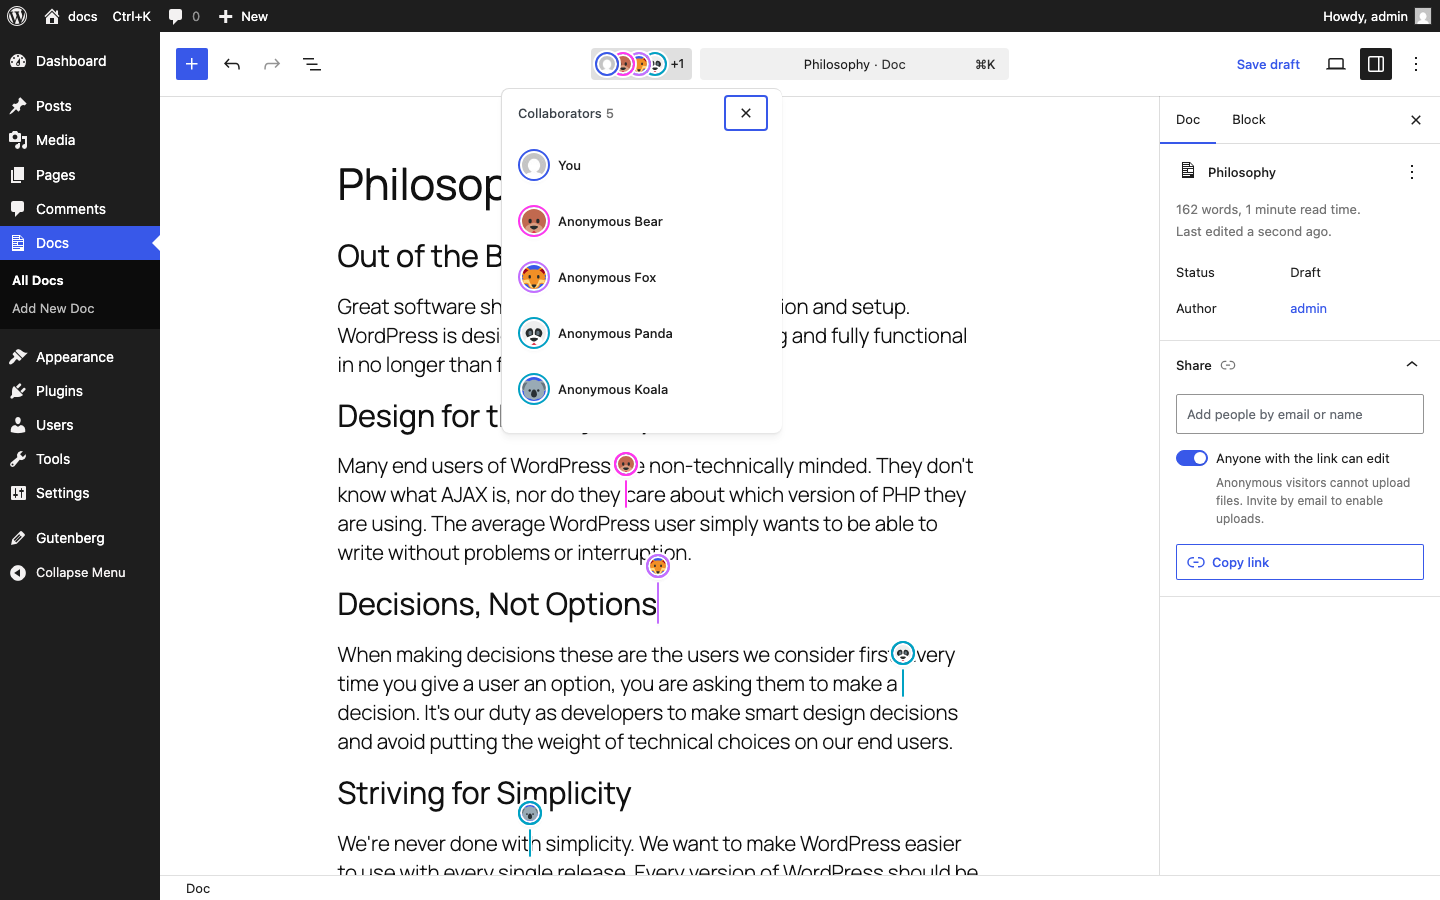
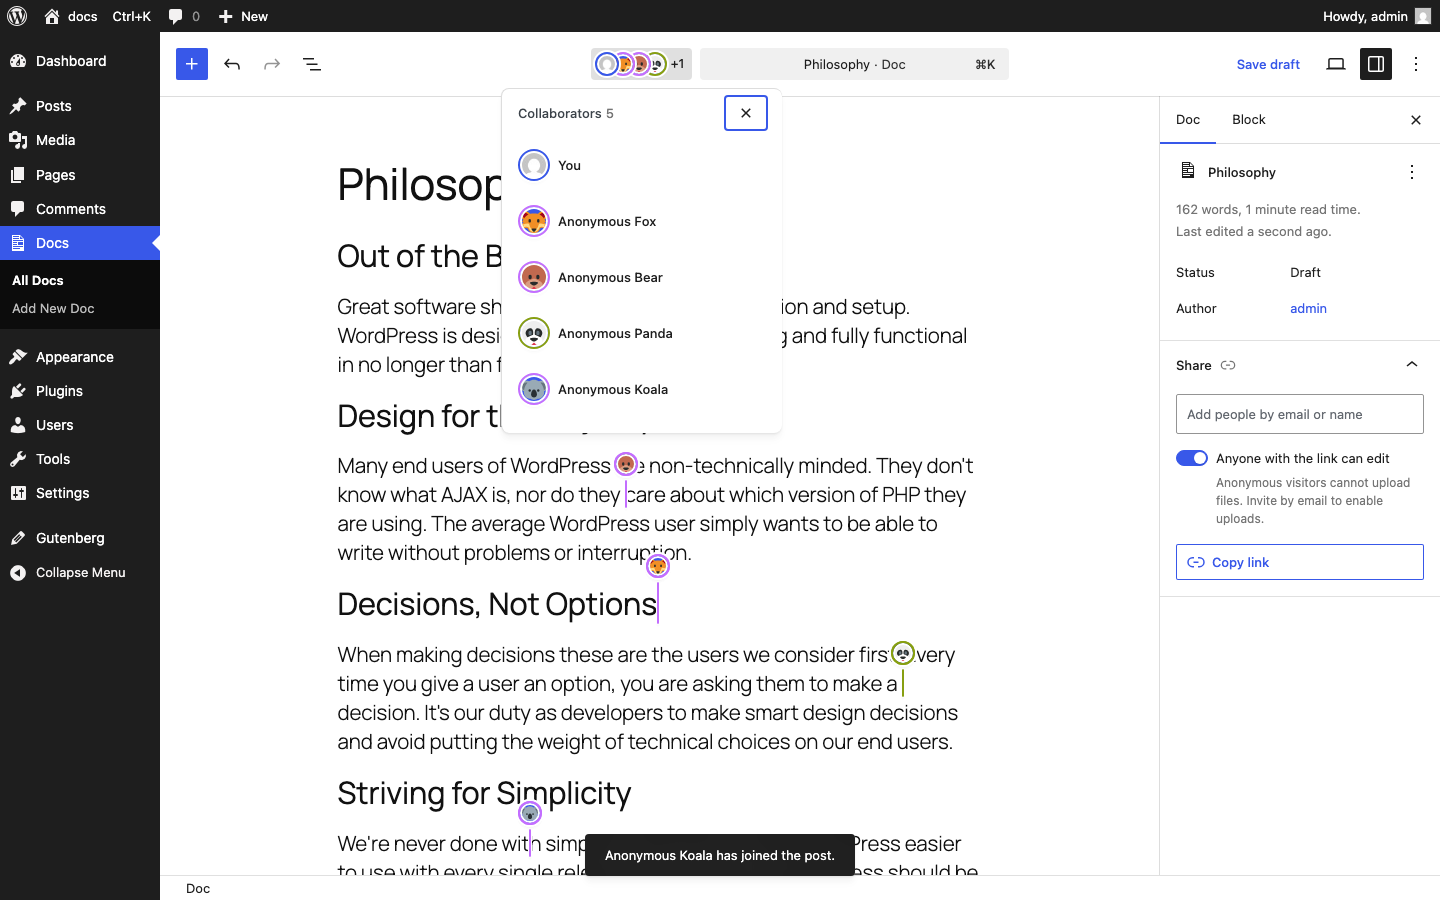
Keep one snackbar in screenshot, remove others via DOM

Changed region(s): [[0.4062, 0.9022, 0.5938, 0.9956], [0.3438, 0.2178, 0.375, 0.3422], [0.4062, 0.0622, 0.4688, 0.0933]]

diff --git a/tests/e2e/collab-editing.spec.js b/tests/e2e/collab-editing.spec.js
@@ -199,10 +199,10 @@ test.describe( 'Collaborative editing', () => {
 			await expect( items ).toHaveCount( 5, { timeout: 15000 } );
 
 			if ( process.env.SCREENSHOTS ) {
-				// Wait for snackbars to auto-dismiss.
-				await expect(
-					page.locator( '.components-snackbar' )
-				).toHaveCount( 0, { timeout: 15000 } ).catch( () => {} );
+				const snackbars = page.locator( '.components-snackbar-list .components-snackbar' );
+				while ( await snackbars.count() > 1 ) {
+					await snackbars.first().evaluate( ( el ) => el.remove() );
+				}
 				await page.screenshot( { path: 'assets/screenshot-1.png' } );
 			}
 
